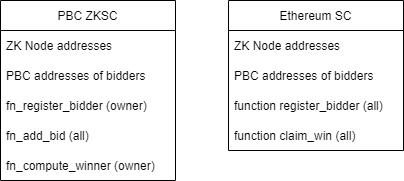
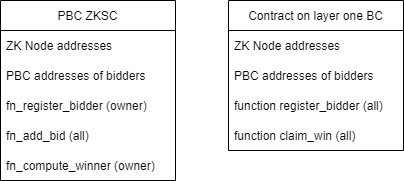
Remove ethereum reference from layer one BC

Changed region(s): [[0.5941, 0.0552, 0.9505, 0.1105]]

diff --git a/docs/ZKSC.md b/docs/ZKSC.md
@@ -53,15 +53,15 @@ pub fn zk_compute() -> (Sbi32, Sbi32) {
 ````
 (You will see the code handling the remaining contract phases further down the page) 
 
-### Use zero knowledge smart contracts on PBC as a second layer for Ethereum
+### Use zero knowledge smart contracts on PBC as a second layer
 
-It is possible to use a zero knowledge smart contracts on PBC as a second layer for Ethereum. If we want to do a secret bid second price auction like above, we need to deploy two smart contracts: one zero knowledge smart contract on PBC and a public smart contract on Ethereum. The public functionality of the contracts will be very similar. But the contract on PBC will privately calculate the result of the auction using zero knowledge computation.
+It is possible to use a zero knowledge smart contracts on PBC as a second layer for other blockchains. If we want to do a secret bid second price auction like above, we need to deploy two smart contracts: one zero knowledge smart contract on PBC and a public smart contract on the layer one chain. The public functionality of the contracts will be very similar. But the contract on PBC will privately calculate the result of the auction using zero knowledge computation.
 
 ![Diagram1](Second_layer_ZKSC.png)
 
-The contract owner controls the functions on the Zero knowledge smart contract on PBC, but the functions of the Ethereum contract are open for all users. Naturally only the winner on PBC can successfully claim the win on the Ethereum contract. 
-The flow goes like this: After deployment on PBC, the contract owner needs to add some information from the state of the PBC contract to the contract on Ethereum.   
-The contract on PBC still goes through the same phases listed above, but the contract owner has to manually add some information from the state of the deployed PBC contract to contract on Ethereum. The Ethereum contract needs to contain the identities (PBC addresses) of the ZK nodes that have been allocated to do the zero knowledge computation. This is necessary because the winner uses signatures from the ZK nodes to claim and prove themselves the actual winner. The signatures contain the identity of the zk nodes and the result (a winning bidder and the price) which the respective node approved. To claim a win on the Ethereum contract your identity have to match the result calculated by a majority of the ZK nodes. In practice 3 out of 4.
+The contract owner controls the functions on the Zero knowledge smart contract on PBC, but the functions of the layer one public contract are open for all users. Naturally only the winner on PBC can successfully claim the win on the contract located on the layer one BC. 
+The flow goes like this: After deployment on PBC, the contract owner needs to add some information from the state of the PBC contract to the contract on layer one.   
+The contract on PBC still goes through the same phases listed above, but the contract owner has to manually add some information from the state of the deployed PBC contract to contract on layer one. The layer one contract needs to contain the identities (PBC addresses) of the ZK nodes that have been allocated to do the zero knowledge computation. This is necessary because the winner uses signatures from the ZK nodes to claim and prove themselves the actual winner. The signatures contain the identity of the zk nodes and the result (a winning bidder and the price) which the respective node approved. To claim a win on the layer one contract your identity have to match the result calculated by a majority of the ZK nodes. In practice 3 out of 4.
 
 
 
